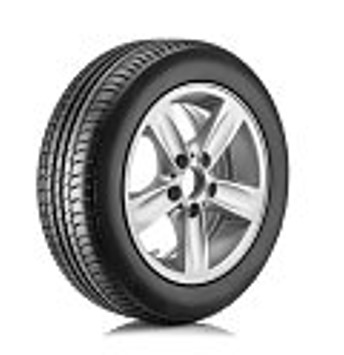
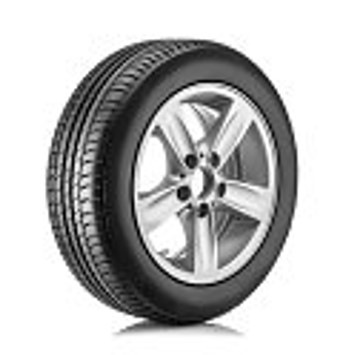
Enhance: added revealNext to value.html

diff --git a/assets/js/scripts.js b/assets/js/scripts.js
@@ -149,7 +149,7 @@ function populateImage() {
     switch(imageCount) {
         case 0:
             $("#leftcarouselarrow").css('color', '#eeeeee');
-            return;
+            break;
         case 1:
             $("#leftcarouselarrow").css('color', '#657486');
             break;
@@ -158,7 +158,8 @@ function populateImage() {
             break;
         case 4:
             $("#rightcarouselarrow").css('color', '#eeeeee');
-            return;
+            revealNext()
+            break;
         default:
             break;
     }

diff --git a/assets/css/style.css b/assets/css/style.css
@@ -68,6 +68,10 @@ a:hover, #helpbtn:hover, .btn-orange:hover, .btn-blue:hover {
     font-weight: bold; 
 }
 
+#leftcarouselarrow:hover, #rightcarouselarrow:hover {
+    cursor: pointer;
+}
+
 /*------------------- Navbar Styling */
 
 nav {
@@ -162,7 +166,7 @@ nav {
 }
 
 #valueimage {
-    height: calc(20vh + (70 - 20) * ((100vw - 300px) / 1620));
+    width: calc(20vh + (70 - 20) * ((100vw - 300px) / 1620));
     margin-bottom: 5vh;
 }
 
